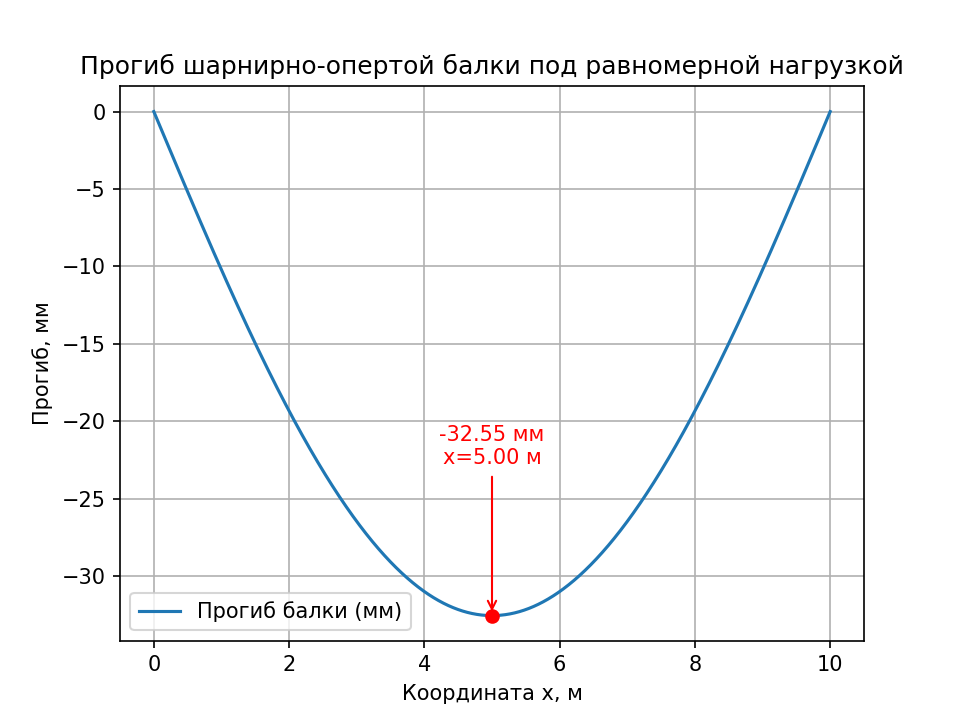
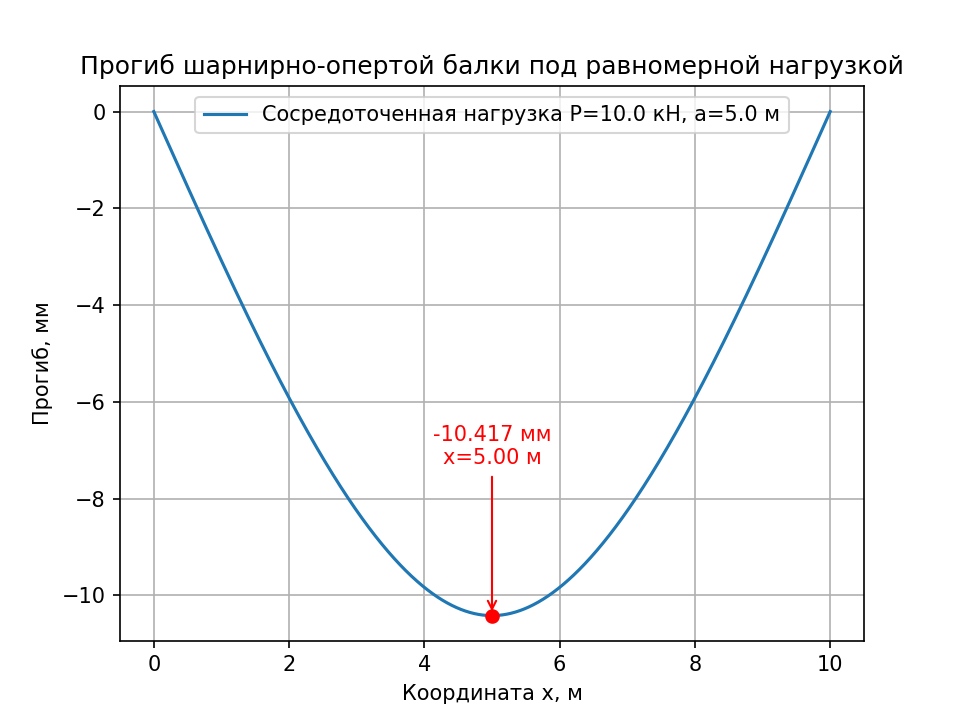
feat: integrate point load deflection into main with load type selection.

diff --git a/src/beam_deflection.py b/src/beam_deflection.py
@@ -49,38 +49,46 @@ def deflection_point_load(x, L, E, I, P, a):
 
 
 def main():
-	print("=== Расчет прогиба балки под равномерной нагрузкой (UDL) ===")
-
-	# # Ввод параметров от пользователя
-	# L = float(input("Введите длину балки L (м): ")) 
-	# E = float(input("Введите модуль Юнга E (ГПа): "))
-	# I = float(input("Введите момент инерции I (м^4): "))
-	# q = float(input("Введите равномерно-распределенную нагрузку q (кН/м): "))
-	# L = 10
-	# E = 200
-	# I = 0.0001
-	# q = 5
-
+	print("=== Расчет прогиба балки ===")
+	print("1 - Равномерная нагрузка (q)")
+	print("2 - Сосредоточенная нагрузка (P в точке а)")
+	choice = input("Выберите тип нагрузки [1/2]: ").strip()
+	
+	# Ввод параметров от пользователя
+	L = float(input("Введите длину балки L (м): ")) 
+	E = float(input("Введите модуль Юнга E (ГПа): "))
+	I = float(input("Введите момент инерции I (м^4): "))
+	
 	# Сетка точек вдоль балки для построения графика
 	x = np.linspace(0, L, 2001)
-	y = deflection_udl(x, L, E, I, q) # прогиб в мм
+	
+	if choice == "1":
+		q = float(input("Введите равномерную нагрузку q (кН/м): "))
+		y = deflection_udl(x, L, E, I, q) # прогиб в мм
+		label = f"Равномерная нагрузка q={q} кН/м"
+	elif choice == "2":
+		P = float(input("Введите сосредоточенную нагрузку Р (кН): "))
+		a = float(input("Введите координату приложения силы a (м): "))
+		y = deflection_point_load(x, L, E, I, P, a)
+		label = f"Сосредоточенная нагрузка Р={P} кН, a={a} м"
+	else:
+		print("Неверный выбор")
+		return
 
 	# Координата и вычисление максимального прогиба (в миллиметрах)
 	idx_min = np.argmin(y)
-	x_max = x[idx_min]
-	y_max = y[idx_min]
+	x_max, y_max = x[idx_min], y[idx_min]
 	y_max_abs = abs(y_max)
-
 
 	# Вывод результата
 	print("\n===Результат===")
 	print(f"Максмальный прогиб: {y_max:.3f} мм (в точке х = {x_max:.2f} м)")
 
 	# Построение графика 
-	plt.plot(x, y, label="Прогиб балки (мм)")
+	plt.plot(x, y, label=label)
 	plt.scatter(x_max, y_max, color="red", zorder=5)
 	plt.annotate(
-		f"{-y_max_abs:.2f} мм\nx={x_max:.2f} м",
+		f"{-y_max_abs:.3f} мм\nx={x_max:.2f} м",
 		xy = (x_max, y_max),
 		xytext=(x_max, y_max*0.7),
 		arrowprops=dict(arrowstyle="->", color="red"),
@@ -98,9 +106,4 @@ def main():
 	plt.show()
 
 if __name__ == "__main__":
-	# main()
-	L, E, I, P = 10, 200, 1e-4, 10  # м, ГПа, м^4, кН
-	a = L / 2
-	x = np.linspace(0, L, 5)  # пять точек для проверки
-	y = deflection_point_load(x, L, E, I, P, a)
-	print("Прогибы (мм):", y)
+	main()
